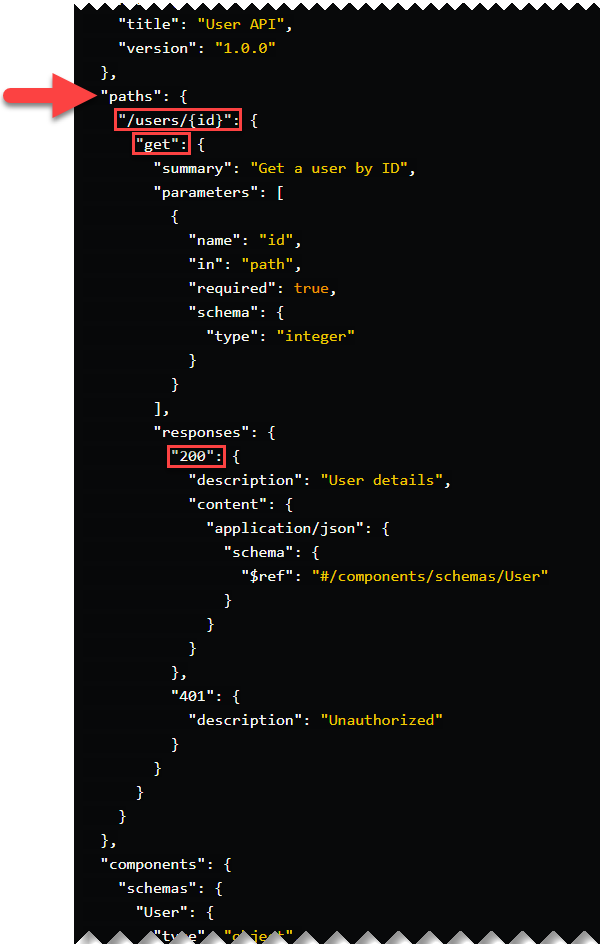
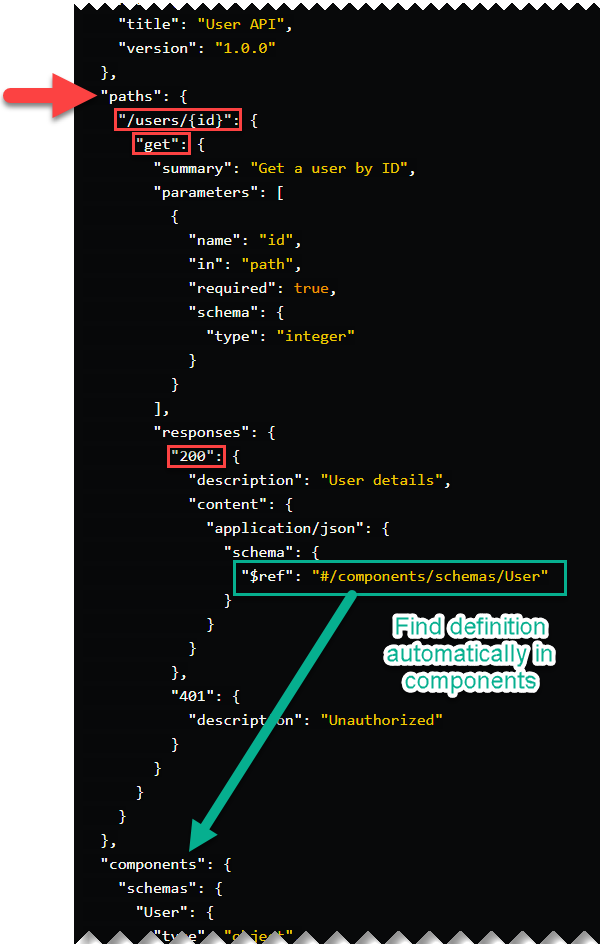
Adding other clarifications about how path parameter works

diff --git a/README.md b/README.md
@@ -130,6 +130,8 @@ cy.request('GET', 'https://awesome.api.com/users/1')
   .validateSchema(schema, { endpoint: '/users/{id}', method: 'GET', status: 200 });
 ```
 
+Using the path defined by `{ endpoint, method, status }`, the plugin will automatically take the schema `$ref` for that definition, find it in the `components section`, and use it for the schema validation.
+
 ![Path to the schema definition](images/path.png)
 
 ### Functions
